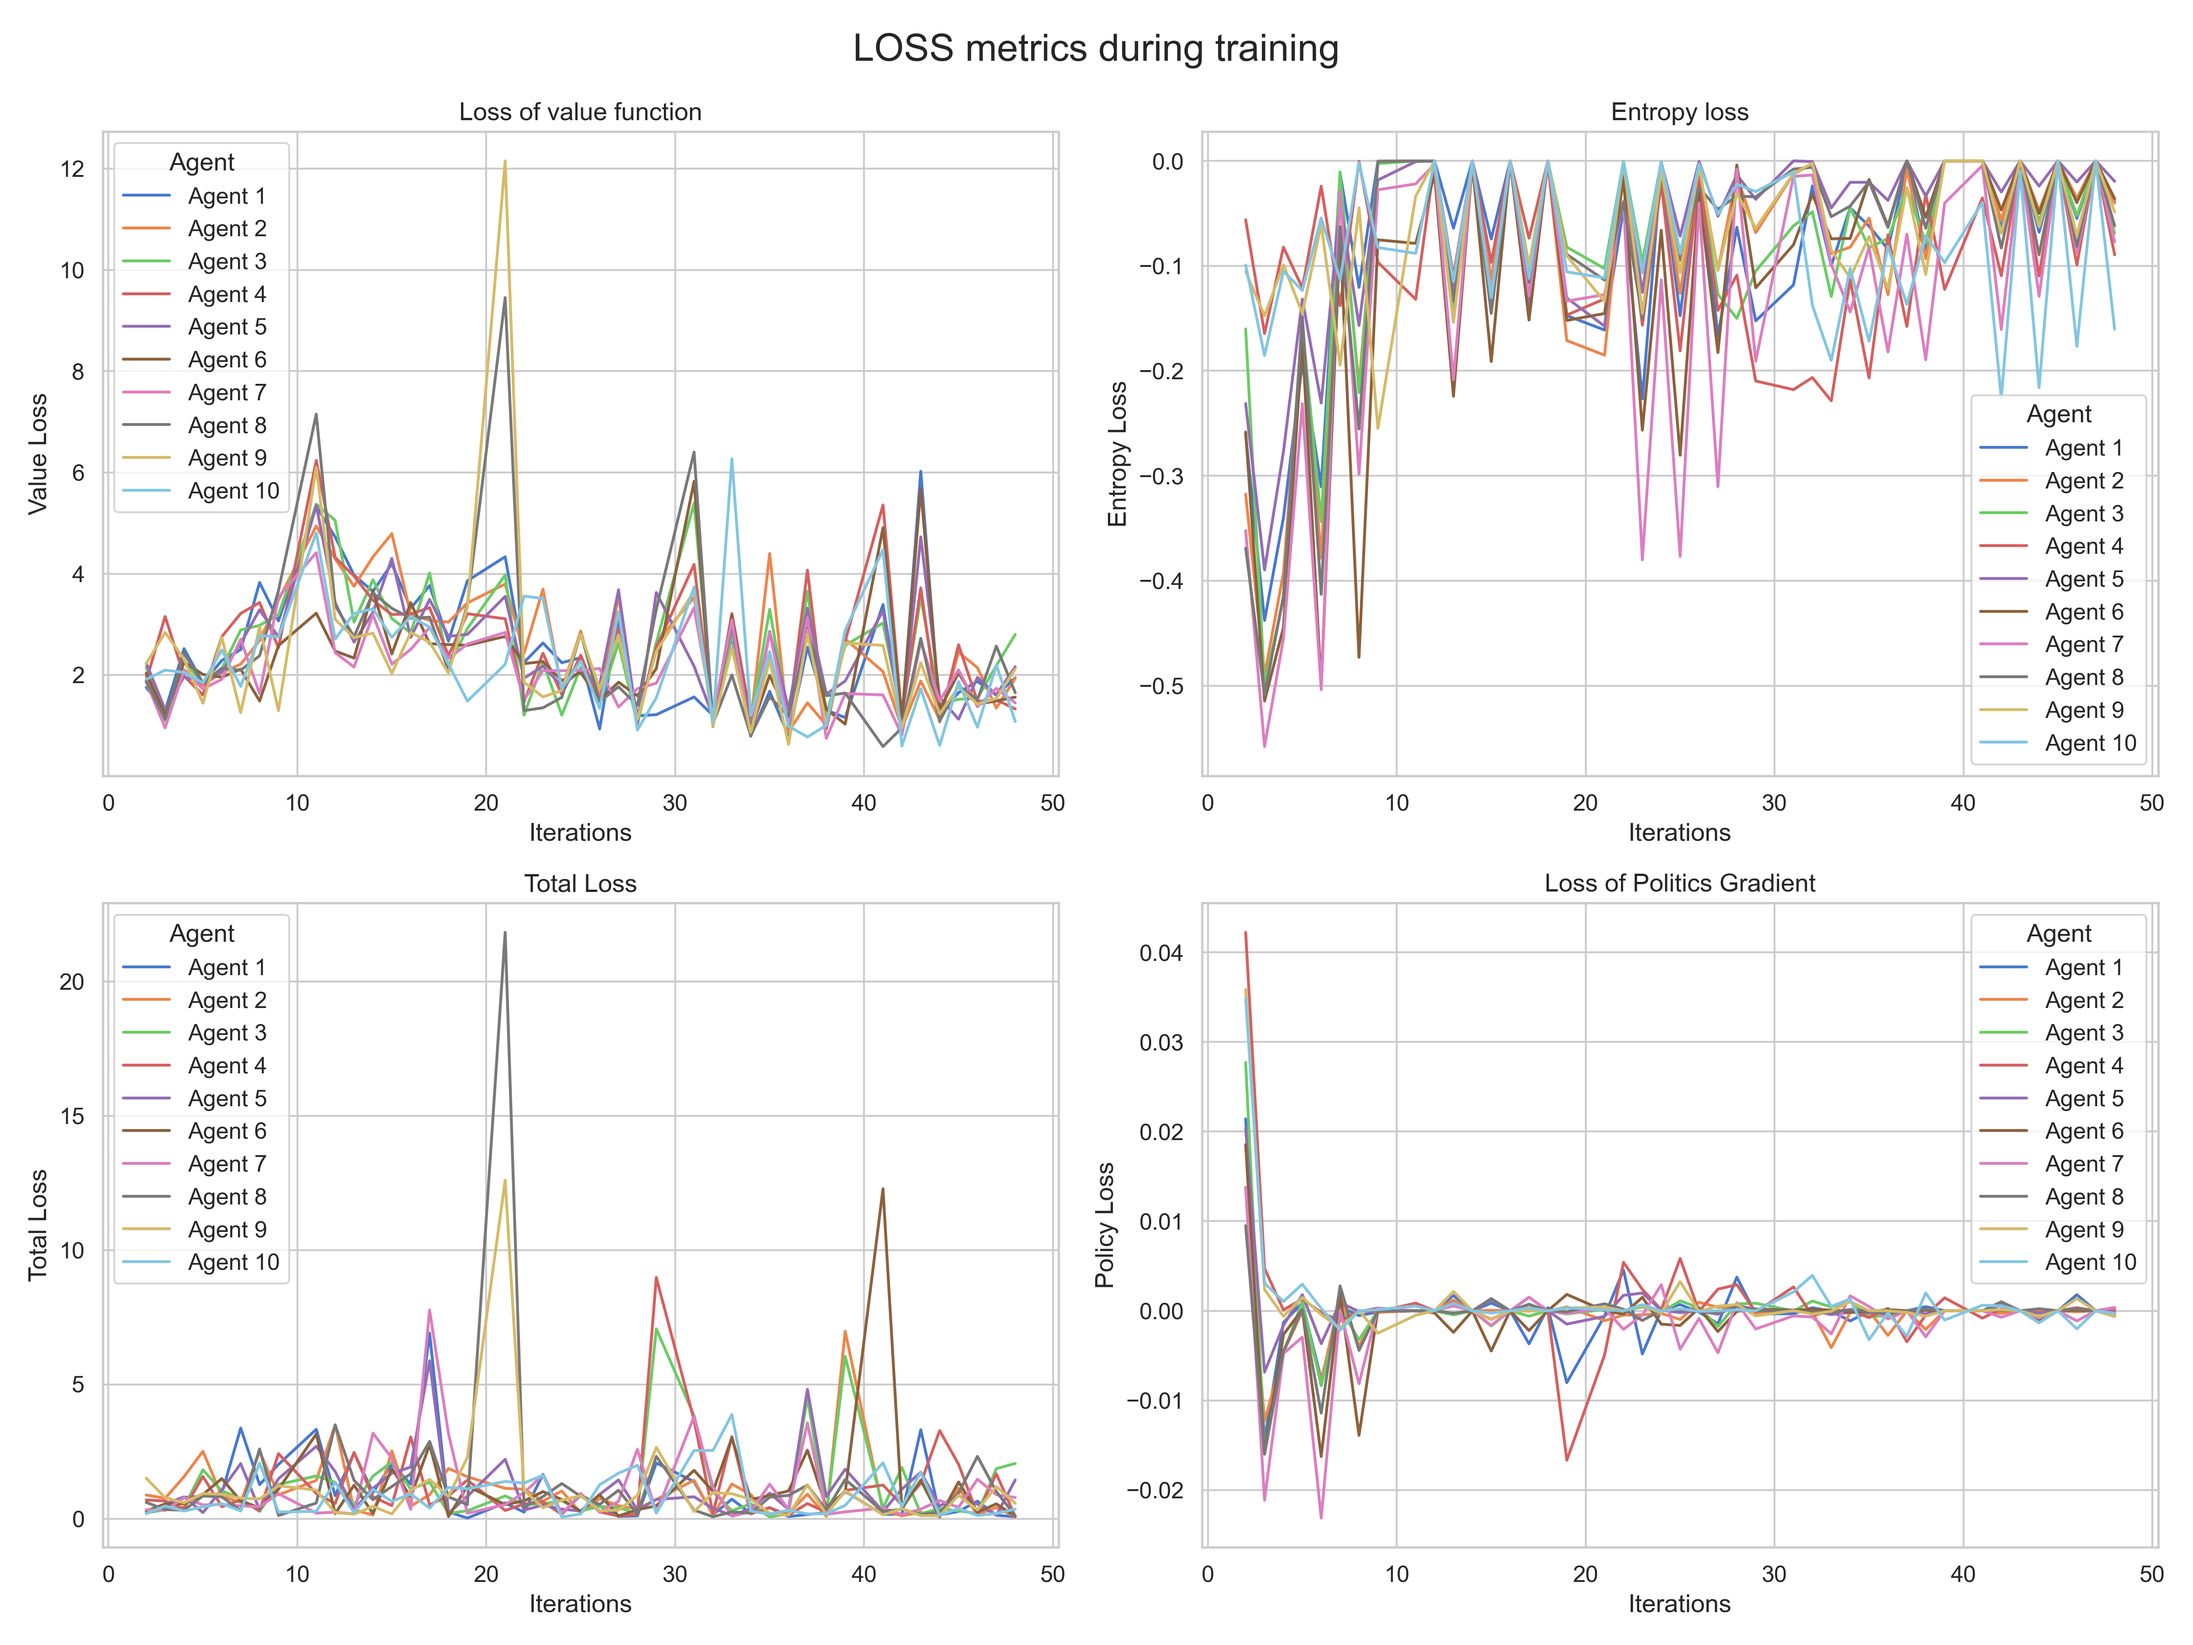
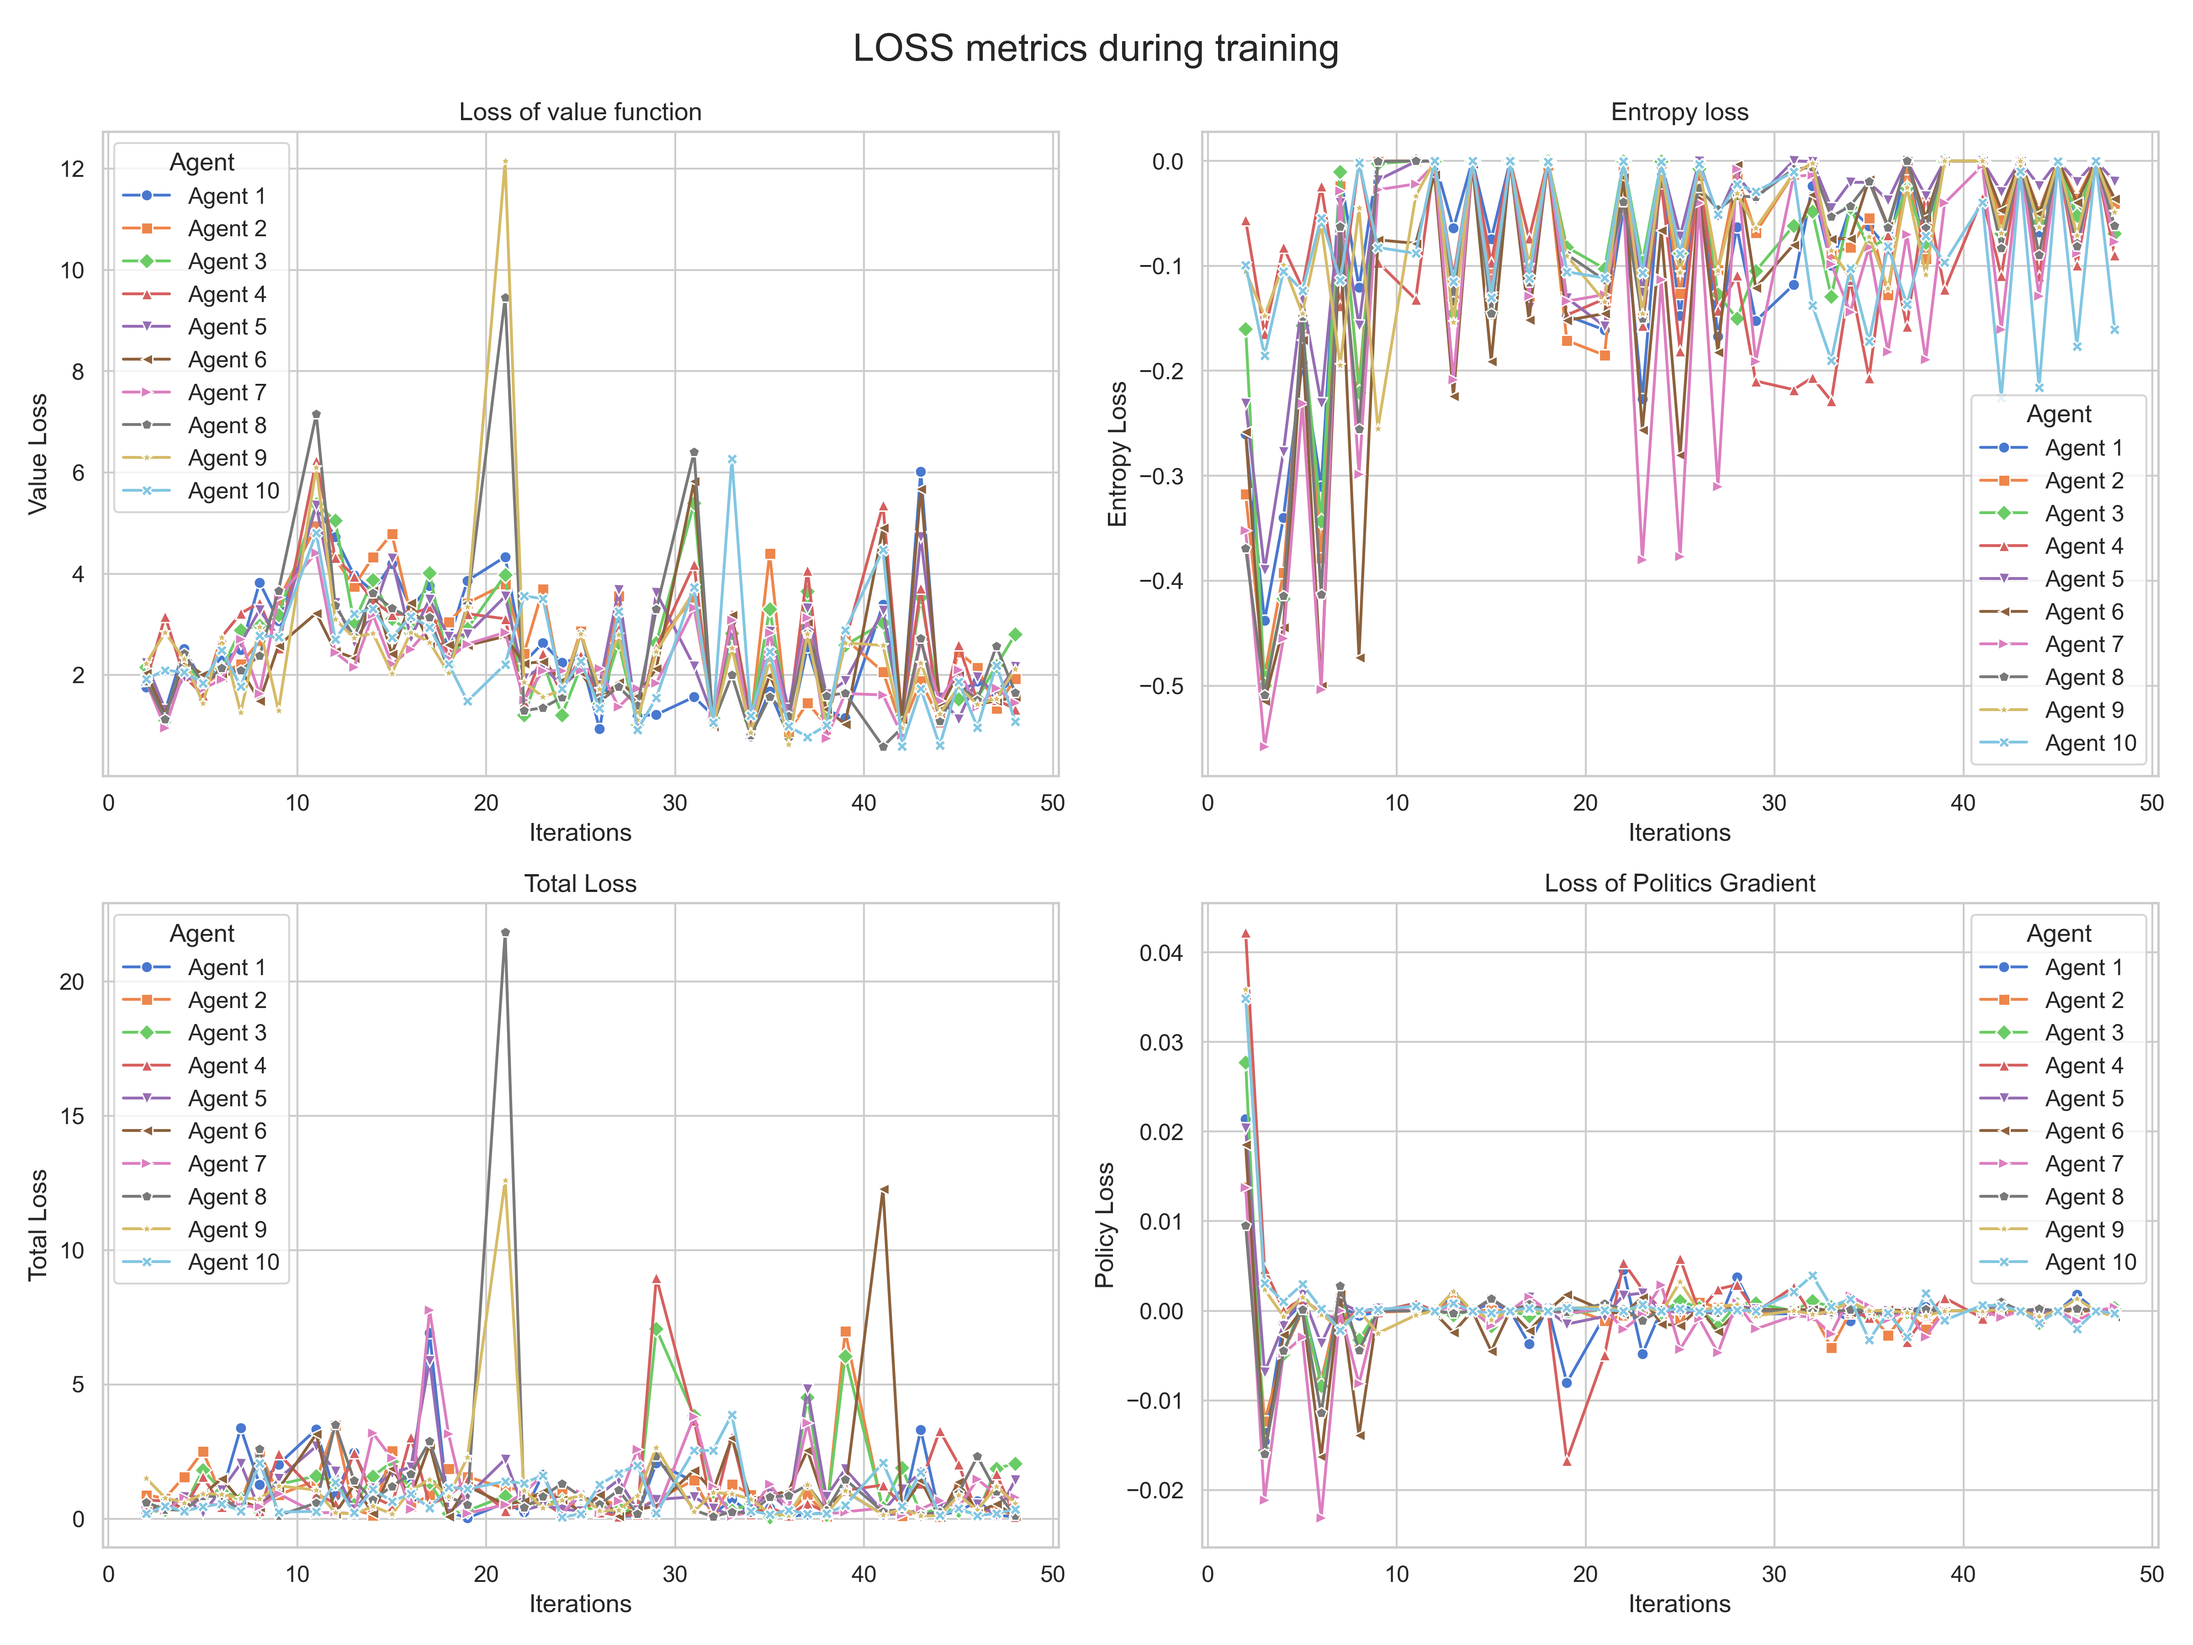
Atualizações camera-ready paper

diff --git a/eval/evaluation_Losses_Agents.py b/eval/evaluation_Losses_Agents.py
@@ -86,6 +86,10 @@ train_df.dropna(inplace=True) # Mantém linhas com pelo menos 1 métrica
 # =============================================================================
 # Gráfico 1: Métricas de Loss (4 principais)
 # =============================================================================
+
+# Definir uma lista de 10 marcadores geométricos diferentes
+markers = ['o', 's', 'D', '^', 'v', '<', '>', 'p', '*', 'X']
+
 fig, axes = plt.subplots(2, 2, figsize=(16, 12))
 fig.suptitle('LOSS metrics during training', fontsize=20)
 
@@ -94,10 +98,13 @@ sns.lineplot(
     x='time/iterations',
     y='train/value_loss',
     hue='Agent',
+     style='Agent',
     data=train_df,
     ax=axes[0, 0],
     errorbar=None,
-    linewidth=1.5
+    linewidth=1.5,
+    markers=markers,  # Usar os 10 marcadores diferentes
+    dashes=False,  # Remove padrões de linha, mantendo apenas marcadores
 )
 axes[0, 0].set_title('Loss of value function')
 axes[0, 0].set_ylabel('Value Loss')
@@ -108,10 +115,13 @@ sns.lineplot(
     x='time/iterations',
     y='train/entropy_loss',
     hue='Agent',
+    style='Agent',
     data=train_df,
     ax=axes[0, 1],
     errorbar=None,
-    linewidth=1.5
+    linewidth=1.5,
+    markers=markers,  # Usar os 10 marcadores diferentes
+    dashes=False,  # Remove padrões de linha, mantendo apenas marcadores
 )
 axes[0, 1].set_title('Entropy loss')
 axes[0, 1].set_ylabel('Entropy Loss')
@@ -122,10 +132,13 @@ sns.lineplot(
     x='time/iterations',
     y='train/loss',
     hue='Agent',
+    style='Agent',
     data=train_df,
     ax=axes[1, 0],
     errorbar=None,
-    linewidth=1.5
+    linewidth=1.5,
+    markers=markers,  # Usar os 10 marcadores diferentes
+    dashes=False,  # Remove padrões de linha, mantendo apenas marcadores
 )
 axes[1, 0].set_title('Total Loss')
 axes[1, 0].set_ylabel('Total Loss')
@@ -136,10 +149,13 @@ sns.lineplot(
     x='time/iterations',
     y='train/policy_gradient_loss',
     hue='Agent',
+    style='Agent',
     data=train_df,
     ax=axes[1, 1],
     errorbar=None,
-    linewidth=1.5
+    linewidth=1.5,
+    markers=markers,  # Usar os 10 marcadores diferentes
+    dashes=False,  # Remove padrões de linha, mantendo apenas marcadores
 )
 axes[1, 1].set_title('Loss of Politics Gradient')
 axes[1, 1].set_ylabel('Policy Loss')
@@ -160,29 +176,36 @@ sns.lineplot(
     x='time/iterations',
     y='train/explained_variance',
     hue='Agent',
+    style='Agent',
     data=train_df,
     ax=axes[0, 0],
     errorbar=None,
-    linewidth=1.5
+    linewidth=1.5,
+    markers=markers,  # Usar os 10 marcadores diferentes
+    dashes=False,  # Remove padrões de linha, mantendo apenas marcadores
 )
 axes[0, 0].set_title('Explained Variance')
 axes[0, 0].set_ylabel('Explained Variance')
 axes[0, 0].set_ylim(-0.1, 1.1)
 axes[0, 0].set_xlabel('Iterations')
 
+
 # Approx KL
 sns.lineplot(
     x='time/iterations',
     y='train/approx_kl',
     hue='Agent',
+    style='Agent',  # Isso criará linhas com estilos diferentes
     data=train_df,
     ax=axes[0, 1],
     errorbar=None,
-    linewidth=1.5
+    linewidth=1.5,
+    markers=markers,  # Usar os 10 marcadores diferentes
+    dashes=False,  # Remove padrões de linha, mantendo apenas marcadores
 )
 axes[0, 1].set_title('Approximate KL divergence')
 axes[0, 1].set_ylabel('KL Divergence')
-axes[0, 1].set_yscale('log')  # Escala log para melhor visualização
+axes[0, 1].set_yscale('log')
 axes[0, 1].set_xlabel('Iterations')
 
 # Clip Fraction
@@ -190,10 +213,13 @@ sns.lineplot(
     x='time/iterations',
     y='train/clip_fraction',
     hue='Agent',
+    style='Agent',
     data=train_df,
     ax=axes[1, 0],
     errorbar=None,
-    linewidth=1.5
+    linewidth=1.5,
+    markers=markers,  # Usar os 10 marcadores diferentes
+    dashes=False,  # Remove padrões de linha, mantendo apenas marcadores
 )
 axes[1, 0].set_title('Clip Fraction')
 axes[1, 0].set_ylabel('Clip Fraction')
@@ -205,10 +231,13 @@ sns.lineplot(
     x='time/iterations',
     y='train/learning_rate',
     hue='Agent',
+    style='Agent',
     data=train_df,
     ax=axes[1, 1],
     errorbar=None,
-    linewidth=1.5
+    linewidth=1.5,
+    markers=markers,  # Usar os 10 marcadores diferentes
+    dashes=False,  # Remove padrões de linha, mantendo apenas marcadores
 )
 axes[1, 1].set_title('Learning Rate')
 axes[1, 1].set_ylabel('Learning Rate')

diff --git a/eval/evaluation_Rollout_Agents.py b/eval/evaluation_Rollout_Agents.py
@@ -5,6 +5,9 @@ import numpy as np
 import glob
 import os
 
+# Definir uma lista de 10 marcadores geométricos diferentes
+markers = ['o', 's', 'D', '^', 'v', '<', '>', 'p', '*', 'X']
+
 # Configurações estéticas
 sns.set(style="whitegrid", palette="muted")
 plt.rcParams['figure.figsize'] = [14, 10]
@@ -78,10 +81,13 @@ sns.lineplot(
     x='time/iterations',
     y='rollout/ep_rew_mean',
     hue='Agent',
+    style='Agent',
     data=rollout_df,
     ax=ax[0],
     errorbar=('ci', 95),  # Intervalo de confiança de 95%
-    linewidth=2
+    linewidth=2,
+    markers=markers,  # Usar os 10 marcadores diferentes
+    dashes=False,  # Remove padrões de linha, mantendo apenas marcadores
 )
 ax[0].set_title('Comparison of average reward by episode (rollout)', fontsize=16, pad=15)
 ax[0].set_ylabel('Average reward', fontsize=14)
@@ -93,10 +99,13 @@ sns.lineplot(
     x='time/iterations',
     y='rollout/ep_len_mean',
     hue='Agent',
+    style='Agent',
     data=rollout_df,
     ax=ax[1],
     errorbar=('ci', 95),
-    linewidth=2
+    linewidth=2,
+    markers=markers,  # Usar os 10 marcadores diferentes
+    dashes=False,  # Remove padrões de linha, mantendo apenas marcadores
 )
 ax[1].set_title('Comparison of average duration of the episodes (rollout)', fontsize=16, pad=15)
 ax[1].set_ylabel('Steps by episode', fontsize=14)
